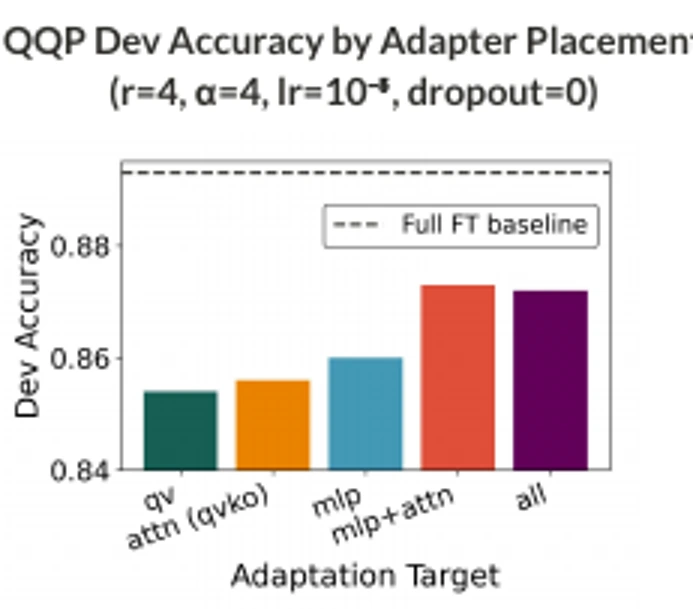
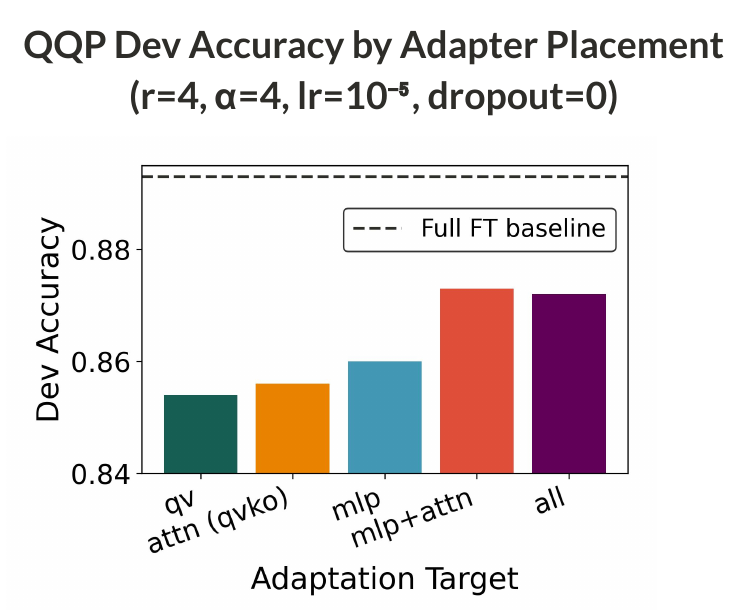
Refine portfolio sections and project thumbnails

Changed region(s): [[0.0, 0.2496, 0.9091, 0.9984], [0.0, 0.0312, 1.0, 0.1872]]

diff --git a/v4/content/home.js b/v4/content/home.js
@@ -182,7 +182,6 @@ function projectList(items, featured = false) {
     splora: 'Fine-tuning language models using about 1% of their parameters.',
     lord: 'Recognizing the same person across video from different cameras.',
     'soccer-gnn': 'Predicting the next action in a soccer match with graph neural networks.',
-    'prior-personal-site': 'An interactive journey from the Milky Way to a desk.',
     'minerva-omnifold-pipeline': 'The code behind my neutrino-unfolding research.',
     'lol-match-prediction': 'Predicting professional League of Legends match outcomes.',
     'systems-security': 'Projects in encrypted chat, smart contracts, and operating systems.',
@@ -340,9 +339,9 @@ function instagramCarousel() {
 
 function projectPreview(item) {
   if (item.id === 'splora')
-    return `<a class="project-preview preview-splora" href="./papers/splora-poster.pdf" target="_blank" rel="noopener noreferrer" aria-label="View SPLoRA project poster"><img src="./img/projects/splora-chart.webp" alt="Chart from the SPLoRA poster comparing paraphrase detection accuracy across LoRA adapter placements" width="693" height="609" loading="lazy"><span class="preview-caption">From the project poster ↗</span></a>`;
+    return `<a class="project-preview preview-splora" href="./papers/splora-poster.pdf" target="_blank" rel="noopener noreferrer" aria-label="View SPLoRA project poster"><img src="./img/projects/splora-chart.webp" alt="Chart from the SPLoRA poster comparing paraphrase detection accuracy across LoRA adapter placements" width="735" height="610" loading="lazy"><span class="preview-caption">From the project poster ↗</span></a>`;
   if (item.id === 'lord')
-    return `<a class="project-preview preview-lord" href="./papers/lord-poster.pdf" target="_blank" rel="noopener noreferrer" aria-label="View LoRD project poster"><img src="./img/projects/lord-model.webp" alt="LoRD model diagram: video frames pass through DINO, temporal aggregation, and BNNeck for cosine retrieval" width="1072" height="284" loading="lazy"><span class="preview-caption">From the project poster ↗</span></a>`;
+    return `<a class="project-preview preview-lord" href="./papers/lord-poster.pdf" target="_blank" rel="noopener noreferrer" aria-label="View LoRD project poster"><img src="./img/projects/lord-architecture.svg" alt="LoRD architecture in two rows: tracklet frames pass through DINO to CLS features, then temporal aggregation, BNNeck, and cosine retrieval" width="360" height="230" loading="lazy"><span class="preview-caption">Architecture from the poster ↗</span></a>`;
   return `<a class="project-preview preview-soccer" href="${escape(item.links[0].href)}" target="_blank" rel="noopener noreferrer" aria-label="View soccer graph neural network project on GitHub"><svg viewBox="0 0 360 210" role="img" aria-label="Illustrative graph connecting players on a soccer pitch"><rect x="18" y="25" width="324" height="162" rx="2" fill="none" stroke="#b7c9b6"/><path d="M180 25v162M18 69h44v73H18m324-73h-44v73h44" fill="none" stroke="#b7c9b6"/><circle cx="180" cy="106" r="28" fill="none" stroke="#b7c9b6"/><path d="M82 113 123 67 172 126 218 73 282 112M82 113l90 13 110-14M123 67l95 6M172 126l60 37" fill="none" stroke="#436448" stroke-width="1.5" stroke-dasharray="4 4"/>${[
     [82, 113],
     [123, 67],
@@ -364,7 +363,6 @@ export function siteNavigation(active = 'home', prefix = './') {
   return `<nav class="site-nav" aria-label="Main navigation"><a class="site-name" href="${prefix}"${active === 'home' ? ' aria-current="page"' : ''}>Joseph Bailey<span class="name-dot" aria-hidden="true">·</span></a><div>${[
     ['home', 'Home', ''],
     ['about', 'About', 'about.html'],
-    ['notes', 'Notes', 'notes/'],
   ]
     .map(
       ([id, label, href]) =>
@@ -376,7 +374,7 @@ export function siteNavigation(active = 'home', prefix = './') {
 }
 
 export function siteFooter(prefix = './') {
-  return `<footer id="contact"><div><p>Research, ideas, or a good conversation.</p><p>${link({ href: `mailto:${profile.email}`, label: profile.email })}</p></div><nav aria-label="More links">${link(profile.links.find((item) => item.id === 'github-link'))}<a href="${prefix}lab/">Visit the lab ↗</a><a href="${prefix}notes/">Notes</a><a href="#top">Back to top ↑</a></nav></footer>`;
+  return `<footer id="contact"><div><p>Research, ideas, or a good conversation.</p><p>${link({ href: `mailto:${profile.email}`, label: profile.email })}</p></div><nav aria-label="More links">${link(profile.links.find((item) => item.id === 'github-link'))}<a href="${prefix}lab/">Visit the lab ↗</a><a href="#top">Back to top ↑</a></nav></footer>`;
 }
 
 function noteList(prefix = './notes/', limit = notes.length) {
@@ -409,14 +407,13 @@ export function renderHome() {
     </div>
     ${instagramCarousel()}
   </header>
-  <nav class="page-index" aria-label="On this page"><a href="#research">Research</a><a href="#projects">Projects</a><a href="#instruments">Outside research</a><a href="#notes">Notes</a></nav>
+  <nav class="page-index" aria-label="On this page"><a href="#research">Research</a><a href="#projects">Projects</a><a href="#instruments">Hobbies</a></nav>
   <section id="research" aria-labelledby="research-heading"><div class="section-heading"><div><h2 id="research-heading">Research</h2></div><a href="./about.html">A little more about me ↗</a></div>${researchList()}</section>
   <section id="projects" aria-labelledby="projects-heading"><div class="section-heading"><div><h2 id="projects-heading">Selected projects</h2></div><span class="section-aside">Code, experiments &amp; what I learned</span></div>${projectList(
     projects.filter((item) => featured.includes(item.id)),
     true,
-  )}<details class="explanation more-projects" id="more-projects"><summary>Four more projects</summary><div class="explanation-body">${projectList(projects.filter((item) => !featured.includes(item.id)))}</div></details></section>
-  <section id="instruments" aria-labelledby="instruments-heading"><div class="section-heading"><div><h2 id="instruments-heading">Outside research</h2></div></div>${personalList()}</section>
-  <section id="notes" aria-labelledby="notes-heading"><div class="section-heading"><div><h2 id="notes-heading">Notes</h2></div><a href="./notes/">All notes ↗</a></div>${noteList('./notes/', 3)}</section>
+  )}<details class="explanation more-projects" id="more-projects"><summary>More projects</summary><div class="explanation-body">${projectList(projects.filter((item) => !featured.includes(item.id)))}</div></details></section>
+  <section id="instruments" aria-labelledby="instruments-heading"><div class="section-heading"><div><h2 id="instruments-heading">Hobbies</h2></div></div>${personalList()}</section>
   ${siteFooter()}`;
 }
 

diff --git a/v4/tests/content.test.js b/v4/tests/content.test.js
@@ -35,7 +35,7 @@ describe('v4 content integrity', () => {
 
   it('contains complete, unique content records', () => {
     expect(research).toHaveLength(5);
-    expect(projects).toHaveLength(7);
+    expect(projects).toHaveLength(6);
     expect(experience).toHaveLength(2);
     expect(education.coursework.length).toBeGreaterThanOrEqual(10);
     expect(education.honors).toHaveLength(4);
@@ -79,7 +79,7 @@ describe('shared chamber manifest', () => {
     expect(manifest).toEqual({ bodies: expect.any(Array) });
     expect(manifest.bodies.length).toBeGreaterThanOrEqual(60);
     expect(manifest.bodies.length).toBeLessThanOrEqual(100);
-    expect(labelled).toHaveLength(15);
+    expect(labelled).toHaveLength(14);
 
     manifest.bodies.forEach((body) => {
       expect(body).toEqual({
@@ -116,7 +116,7 @@ describe('shared chamber manifest', () => {
     const byKind = Object.groupBy(labelled, (body) => body.kind);
     expect(byKind.research).toHaveLength(5);
     expect(byKind.research.every((body) => body.massClass === 'heavy')).toBe(true);
-    expect(byKind.project).toHaveLength(7);
+    expect(byKind.project).toHaveLength(6);
     expect(byKind.project.every((body) => body.massClass === 'mid')).toBe(true);
     expect(byKind.link).toHaveLength(3);
     expect(byKind.link.every((body) => body.massClass === 'light' && body.href)).toBe(true);

diff --git a/v4/styles/home.css b/v4/styles/home.css
@@ -869,19 +869,25 @@ h1 em {
 .preview-splora {
   background: #f3eee7;
 }
-.preview-splora img {
-  width: 190px;
-  height: 159px;
-  object-fit: contain;
-  mix-blend-mode: multiply;
-}
 .preview-lord {
   background: #eaeef0;
 }
+.preview-splora img,
 .preview-lord img {
   width: 100%;
-  height: auto;
+  height: 206px;
+  min-height: 0;
+  object-fit: contain;
   mix-blend-mode: multiply;
+}
+.preview-splora,
+.preview-lord {
+  padding: 12px;
+  gap: 8px;
+}
+.preview-splora .preview-caption,
+.preview-lord .preview-caption {
+  flex-shrink: 0;
 }
 .preview-soccer {
   background: #edf1e8;
@@ -1377,9 +1383,6 @@ footer nav {
     border-bottom: 0;
     border-right: 1px solid var(--home-rule);
   }
-  .preview-lord img {
-    margin-block: 35px;
-  }
   .personal-grid {
     grid-template-columns: 1fr;
   }
@@ -1460,9 +1463,6 @@ footer nav {
     min-height: 0;
     border-right: 0;
     border-bottom: 1px solid var(--home-rule);
-  }
-  .preview-lord img {
-    margin: 0;
   }
   .project-copy {
     padding: 22px;

diff --git a/v4/content/projects.js b/v4/content/projects.js
@@ -1,20 +1,5 @@
 export const projects = Object.freeze([
   Object.freeze({
-    id: 'prior-personal-site',
-    title: 'This website',
-    summary: 'A prior Powers-of-Ten journey from the Milky Way to a desk.',
-    work: 'Designed and built a TypeScript and Three.js portfolio with a real star catalog, live Earth-terminator lighting, and an animated AM CVn binary.',
-    evidence:
-      'The prior version joined an immersive WebGL route to structured research content and downloadable evidence.',
-    stack: Object.freeze(['TypeScript', 'Three.js', 'WebGL', 'Playwright', 'Vitest']),
-    links: Object.freeze([
-      Object.freeze({
-        label: 'Source',
-        href: 'https://github.com/josephbaileyy/josephbaileyy.github.io',
-      }),
-    ]),
-  }),
-  Object.freeze({
     id: 'minerva-omnifold-pipeline',
     title: 'MINERvA-OmniFold',
     summary: 'An unbinned machine-learning unfolding pipeline for neutrino cross sections.',

diff --git a/v4/tests/build-output.test.js b/v4/tests/build-output.test.js
@@ -56,6 +56,7 @@ describe('v4 production output', () => {
       'img/home/track-start.png',
       'img/projects/splora-chart.webp',
       'img/projects/lord-model.webp',
+      'img/projects/lord-architecture.svg',
       'audio/fugue.m4a',
       'img/home/with-camera.jpg',
       'img/home/amcvn-fit.png',

diff --git a/v4/content/manifest.js b/v4/content/manifest.js
@@ -40,14 +40,6 @@ const realBodies = [
     href: null,
   },
   {
-    id: 'prior-personal-site',
-    label: 'SITE',
-    massClass: 'mid',
-    slot: { x: 0.32, y: -0.62 },
-    kind: 'project',
-    href: null,
-  },
-  {
     id: 'minerva-omnifold-pipeline',
     label: 'MINERVA',
     massClass: 'mid',

diff --git a/v4/README.md b/v4/README.md
@@ -20,7 +20,7 @@ npm run test:e2e:lab
 The homepage is rendered at build time by `content/home.js`. Each research item
 has a one-sentence summary and a linked title. Native “Details and links”
 disclosures preserve the full contribution, evidence, and supplementary figures.
-Three projects have visual previews; the remaining four are under “Four more projects.” Experience, coursework, and honors live on `/about.html`. Old experience and education anchors redirect there. All
+Three projects have visual previews; the remaining three are under “More projects.” Notes are temporarily hidden from the homepage and shared navigation; their existing URLs and Markdown sources remain available. Experience, coursework, and honors live on `/about.html`. Old experience and education anchors redirect there. All
 records and disclosures work without JavaScript. Hash links open any enclosing
 disclosures when JavaScript is available. The homepage loads no Three.js or Rapier.
 
@@ -70,13 +70,17 @@ available. AP credit is listed separately without units.
   remain in `public/fonts/`; the legacy lab keeps its own typography.
 - Instagram photos appear only inside the header widget. The track card uses
   `public/img/home/track-start.png`, copied unchanged from the supplied image. Project previews
-  `public/img/projects/splora-chart.webp` and `lord-model.webp` are excerpts from
-  their respective local posters, linked to the complete PDFs. The soccer graph
+  `public/img/projects/splora-chart.webp` and `lord-model.webp` are complete,
+  high-resolution crops of the original poster figures, linked to the full PDFs.
+  `public/img/projects/lord-architecture.svg` reflows that same architecture into
+  two rows for the LoRD thumbnail: per-frame DINO encoding above temporal
+  aggregation, BNNeck, and cosine retrieval. The original labels and options
+  are retained. Thumbnail frames preserve each figure's aspect ratio. The soccer graph
   is an explicitly labelled illustrative SVG, not measured model output.
 - Add Markdown notes under `src/content/notes/`, with `title`, `date`, and `summary`
   frontmatter. `content/notes.js` shares the existing Markdown renderer with the
   archived universe's generator. At Vite startup, `content/note-pages.js` prepares
-  every note's HTML entry and the sitemap. Notes appear on the homepage and index
+  every note's HTML entry and the sitemap. Notes appear on the notes index
   automatically and are rendered into the production build. Generated note HTML
   wrappers under `notes/` should be committed along with their Markdown source.
   The existing universe write-up is labelled as archived so it does not describe
